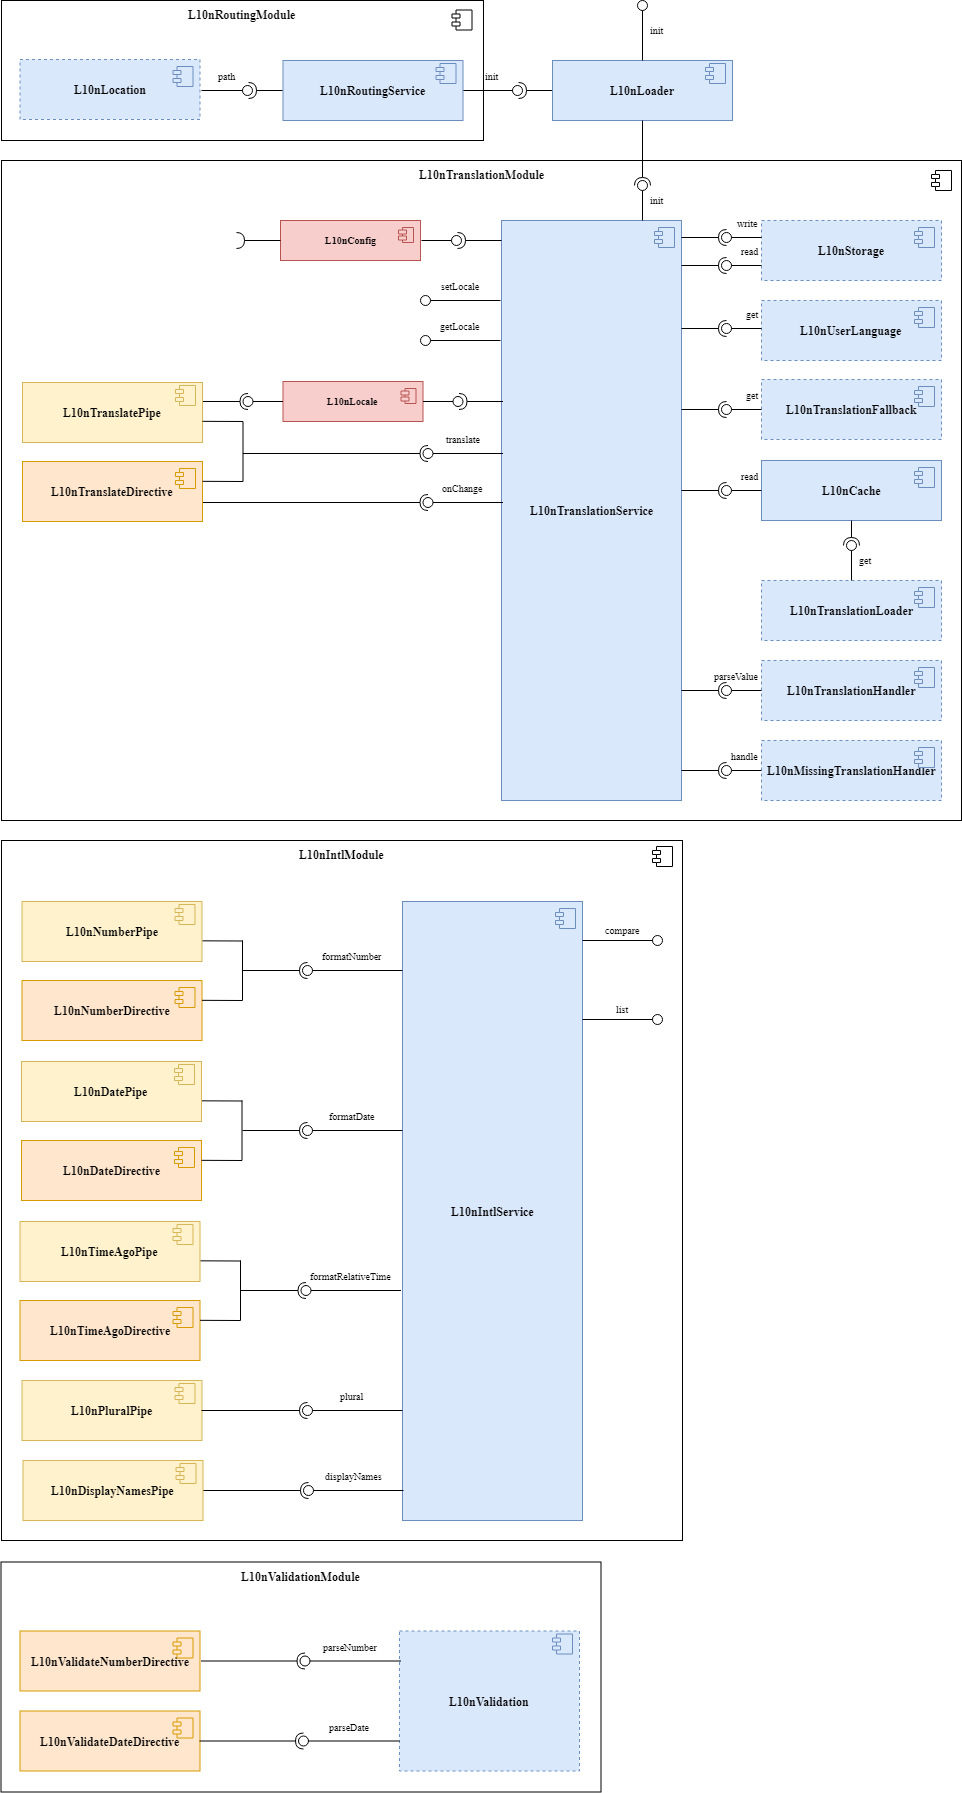
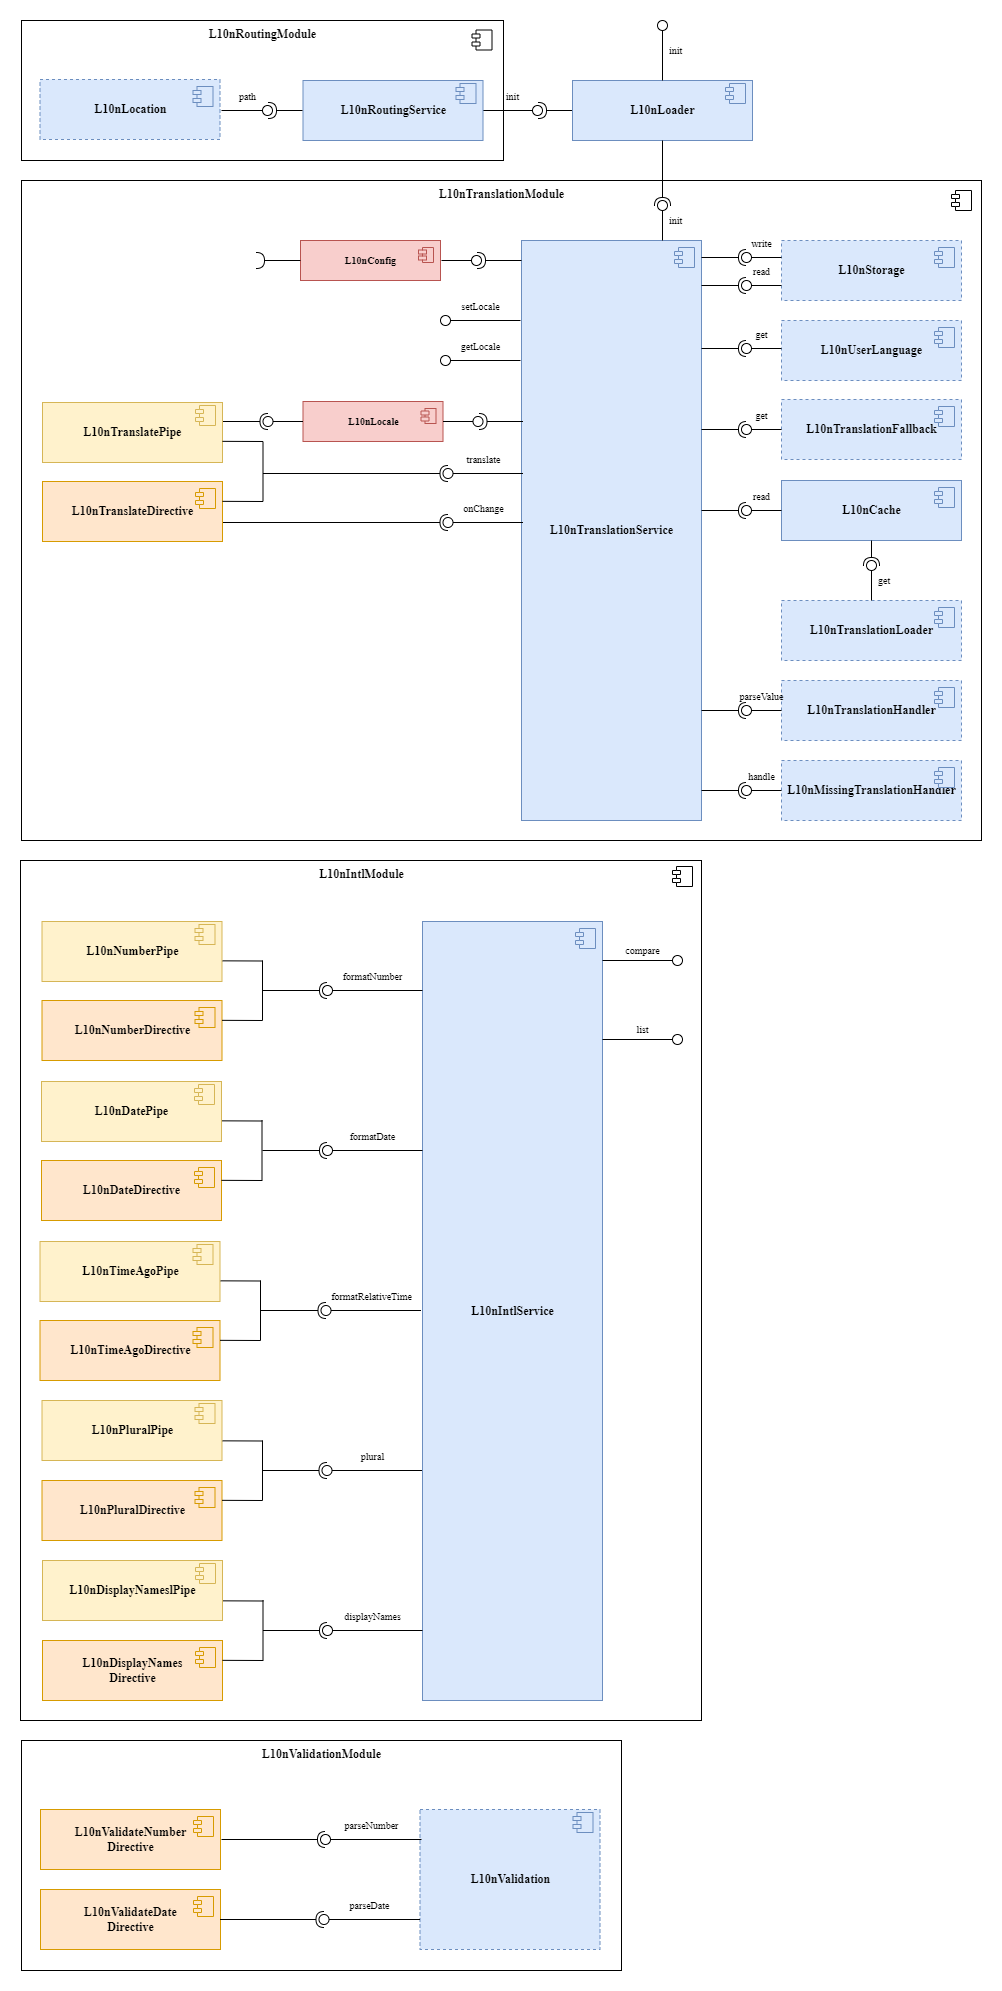
Feat: add Plural & DisplayNames  directives

diff --git a/projects/angular-l10n/src/lib/services/l10n-intl.service.ts b/projects/angular-l10n/src/lib/services/l10n-intl.service.ts
@@ -130,6 +130,37 @@ import { L10nTranslationService } from './l10n-translation.service';
         return new Intl.RelativeTimeFormat(language, options).format(value, unit);
     }
 
+    /**
+     * Gets the plural by a number.
+     * @param value The number to get the plural
+     * @param prefix Optional prefix for the key
+     * @param options An Intl PluralRulesOptions object
+     * @param language The current language
+     */
+    public plural(value: any, prefix = '', options?: Intl.PluralRulesOptions, language = this.locale.language): string {
+        if (!hasPluralRules() || language == null || language === '') return value.toString();
+
+        value = toNumber(value);
+
+        const rule = new Intl.PluralRules(language, options).select(value);
+
+        const key = prefix ? `${prefix}${this.config.keySeparator}${rule}` : rule;
+
+        return this.translation.translate(key);
+    }
+
+    /**
+     * Returns translation of language, region, script or currency display names
+     * @param code ISO code of language, region, script or currency
+     * @param options An Intl DisplayNamesOptions object
+     * @param language The current language
+     */
+    public displayNames(code: string, options?: any, language = this.locale.language): string {
+        if (!hasDisplayNames() || language == null || language === '') return code;
+
+        return new (Intl as any).DisplayNames(language, options).of(code);
+    }
+
     public getCurrencySymbol(locale = this.locale): string | undefined {
         if (!hasNumberFormat()) return locale.currency;
 
@@ -166,25 +197,6 @@ import { L10nTranslationService } from './l10n-translation.service';
     }
 
     /**
-     * Gets the plural by a number.
-     * @param value The number to get the plural
-     * @param prefix Optional prefix for the key
-     * @param options An Intl PluralRulesOptions object
-     * @param language The current language
-     */
-    public plural(value: any, prefix = '', options?: Intl.PluralRulesOptions, language = this.locale.language): string {
-        if (!hasPluralRules() || language == null || language === '') return value.toString();
-
-        value = toNumber(value);
-
-        const rule = new Intl.PluralRules(language, options).select(value);
-
-        const key = prefix ? `${prefix}${this.config.keySeparator}${rule}` : rule;
-
-        return this.translation.translate(key);
-    }
-
-    /**
      * Returns the representation of a list.
      * @param list An array of keys
      * @param options An Intl ListFormatOptions object
@@ -195,18 +207,6 @@ import { L10nTranslationService } from './l10n-translation.service';
         if (!hasListFormat() || language == null || language === '') return values.join(', ');
 
         return new (Intl as any).ListFormat(language, options).format(values);
-    }
-
-    /**
-     * Returns translation of language, region, script or currency display names
-     * @param code ISO code of language, region, script or currency
-     * @param options An Intl DisplayNamesOptions object
-     * @param language The current language
-     */
-    public displayNames(code: string, options?: any, language = this.locale.language): string {
-        if (!hasDisplayNames() || language == null || language === '') return code;
-
-        return new (Intl as any).DisplayNames(language, options).of(code);
     }
 
 }

diff --git a/projects/angular-l10n/src/lib/modules/l10n-intl.module.ts b/projects/angular-l10n/src/lib/modules/l10n-intl.module.ts
@@ -3,11 +3,13 @@ import { NgModule } from '@angular/core';
 import { L10nDatePipe, L10nDateAsyncPipe } from '../pipes/l10n-date.pipe';
 import { L10nNumberPipe, L10nNumberAsyncPipe } from '../pipes/l10n-number.pipe';
 import { L10nTimeAgoPipe, L10nTimeAgoAsyncPipe } from '../pipes/l10n-time-ago.pipe';
-import { L10nPluralAsyncPipe, L10nPluralPipe } from '../pipes/l10n-plural.pipe';
-import { L10nDisplayNamesAsyncPipe, L10nDisplayNamesPipe } from '../pipes/l10n-display-names.pipe';
+import { L10nPluralPipe, L10nPluralAsyncPipe } from '../pipes/l10n-plural.pipe';
+import { L10nDisplayNamesPipe, L10nDisplayNamesAsyncPipe } from '../pipes/l10n-display-names.pipe';
 import { L10nDateDirective } from '../directives/l10n-date.directive';
 import { L10nNumberDirective } from '../directives/l10n-number.directive';
 import { L10nTimeAgoDirective } from '../directives/l10n-time-ago.directive';
+import { L10nPluralDirective } from '../directives/l10n-plural.directive';
+import { L10nDisplayNamesDirective } from '../directives/l10n-display-names.directive';
 import { L10nIntlService } from '../services/l10n-intl.service';
 
 @NgModule({
@@ -24,7 +26,9 @@ import { L10nIntlService } from '../services/l10n-intl.service';
         L10nDisplayNamesAsyncPipe,
         L10nDateDirective,
         L10nNumberDirective,
-        L10nTimeAgoDirective
+        L10nTimeAgoDirective,
+        L10nPluralDirective,
+        L10nDisplayNamesDirective
     ],
     exports: [
         L10nDatePipe,
@@ -39,7 +43,9 @@ import { L10nIntlService } from '../services/l10n-intl.service';
         L10nDisplayNamesAsyncPipe,
         L10nDateDirective,
         L10nNumberDirective,
-        L10nTimeAgoDirective
+        L10nTimeAgoDirective,
+        L10nPluralDirective,
+        L10nDisplayNamesDirective
     ],
     providers: [L10nIntlService]
 })

diff --git a/projects/angular-l10n/src/lib/directives/l10n-plural.directive.ts b/projects/angular-l10n/src/lib/directives/l10n-plural.directive.ts
@@ -1,0 +1,27 @@
+import { Directive, Input } from '@angular/core';
+
+import { L10nDirective } from '../models/l10n-directive';
+import { L10nIntlService } from '../services/l10n-intl.service';
+
+@Directive({
+    selector: '[l10nPlural]'
+})
+export class L10nPluralDirective extends L10nDirective {
+
+    @Input() set l10nPlural(options: Intl.PluralRulesOptions | '') {
+        if (options) this.options = options;
+    }
+
+    @Input() public prefix?: string;
+
+    @Input() public options?: Intl.PluralRulesOptions;
+
+    constructor(protected intl: L10nIntlService) {
+        super();
+    }
+
+    protected getValue(text: string): string {
+        return this.intl.plural(text, this.prefix, this.options, this.language);
+    }
+
+}

diff --git a/projects/angular-l10n-app/src/app/app.component.html b/projects/angular-l10n-app/src/app/app.component.html
@@ -10,8 +10,10 @@
 
 <h3>{{ 'changeLocale' | translate:locale.language }}</h3>
 
-<button *ngFor="let item of schema"
-    (click)="setLocale(item.locale)">{{ item.locale.language | l10nDisplayNames:locale.language:{ type: 'language' } }}</button>
+<!-- <button *ngFor="let item of schema"
+    (click)="setLocale(item.locale)">{{ item.locale.language | l10nDisplayNames:locale.language:{ type: 'language' } }}</button> -->
+<button *ngFor="let item of schema" (click)="setLocale(item.locale)" [options]="{ type: 'language' }"
+    l10nDisplayNames>{{ item.locale.language }}</button>
 
 <!-- <button *ngFor="let item of schema" (click)="setLocale(item.locale)">{{ item.text }}</button> -->
 

diff --git a/projects/angular-l10n/src/lib/directives/l10n-display-names.directive.ts b/projects/angular-l10n/src/lib/directives/l10n-display-names.directive.ts
@@ -1,0 +1,25 @@
+import { Directive, Input } from '@angular/core';
+
+import { L10nDirective } from '../models/l10n-directive';
+import { L10nIntlService } from '../services/l10n-intl.service';
+
+@Directive({
+    selector: '[l10nDisplayNames]'
+})
+export class L10nDisplayNamesDirective extends L10nDirective {
+
+    @Input() set l10nDisplayNames(options: any | '') {
+        if (options) this.options = options;
+    }
+
+    @Input() public options?: any;
+
+    constructor(protected intl: L10nIntlService) {
+        super();
+    }
+
+    protected getValue(text: string): string {
+        return this.intl.displayNames(text, this.options, this.language);
+    }
+
+}

diff --git a/projects/angular-l10n-app/src/app/home/pipe/pipe.component.ts b/projects/angular-l10n-app/src/app/home/pipe/pipe.component.ts
@@ -1,6 +1,6 @@
-import { Component, OnInit, Inject, Input } from '@angular/core';
+import { Component, OnInit, Input, inject } from '@angular/core';
 
-import { L10N_LOCALE, L10nLocale } from 'angular-l10n';
+import { L10N_LOCALE } from 'angular-l10n';
 
 import { convertCurrency, convertLength } from '../../conversions';
 
@@ -17,7 +17,7 @@ export class PipeComponent implements OnInit {
     convertCurrency = convertCurrency;
     convertLength = convertLength;
 
-    constructor(@Inject(L10N_LOCALE) public locale: L10nLocale) { }
+    locale = inject(L10N_LOCALE); // Alternative to inject in constructor
 
     ngOnInit() {
     }

diff --git a/projects/angular-l10n/src/public-api.ts b/projects/angular-l10n/src/public-api.ts
@@ -33,6 +33,8 @@ export * from './lib/pipes/l10n-display-names.pipe';
 export * from './lib/directives/l10n-date.directive';
 export * from './lib/directives/l10n-number.directive';
 export * from './lib/directives/l10n-time-ago.directive';
+export * from './lib/directives/l10n-plural.directive';
+export * from './lib/directives/l10n-display-names.directive';
 export * from './lib/modules/l10n-intl.module';
 // L10nValidationModule
 export * from './lib/directives/l10n-validate-number.directive';

diff --git a/projects/angular-l10n-app/src/app/home/directive/directive.component.html b/projects/angular-l10n-app/src/app/home/directive/directive.component.html
@@ -9,3 +9,6 @@
 <br>
 <p [options]="{ digits: '1.2-2', style: 'currency' }" [convert]="convertCurrency" [convertParams]="{ rate: 1.16 }" l10nNumber>1000</p>
 <p [options]="{ digits: '1.0-2', style: 'unit', unit: locale.units['length'] }" [convert]="convertLength" l10nNumber>1</p>
+<br>
+<p>1 <span [options]="{ type: 'cardinal' }" prefix="home.devs" l10nPlural>1</span></p>
+<p>2 <span [options]="{ type: 'cardinal' }" prefix="home.devs" l10nPlural>2</span></p>
